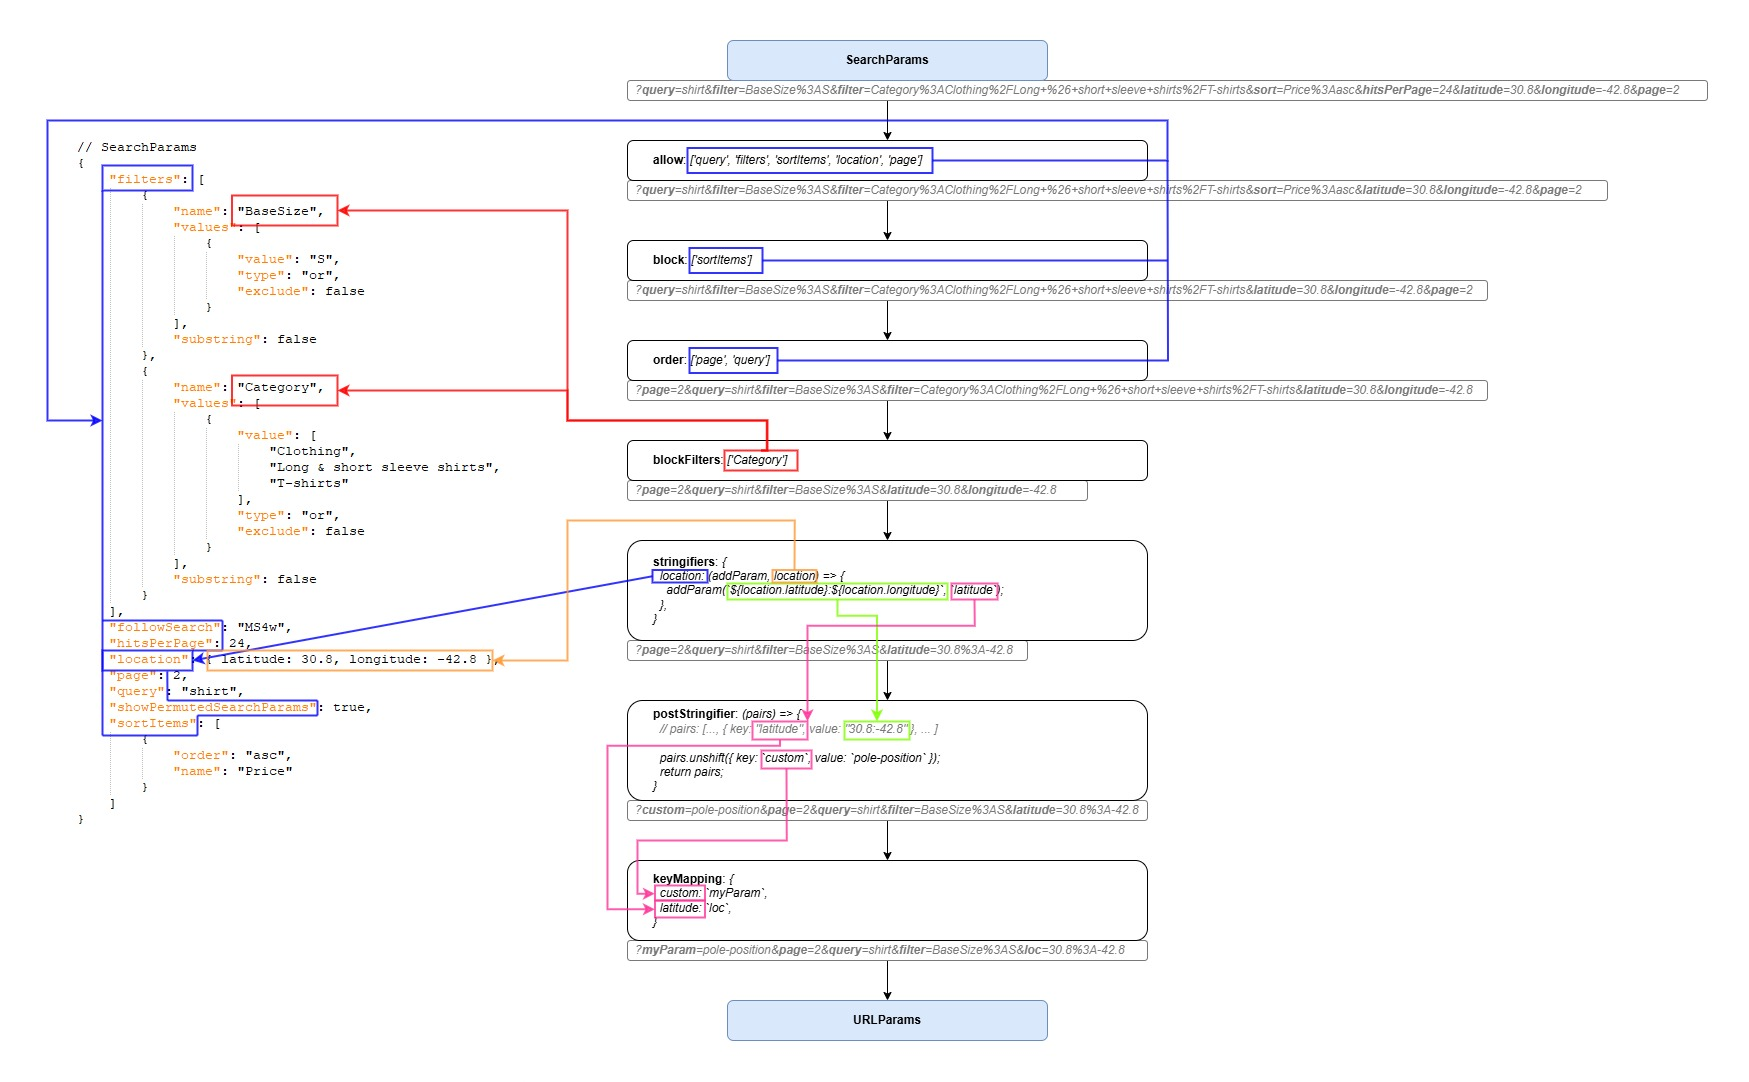
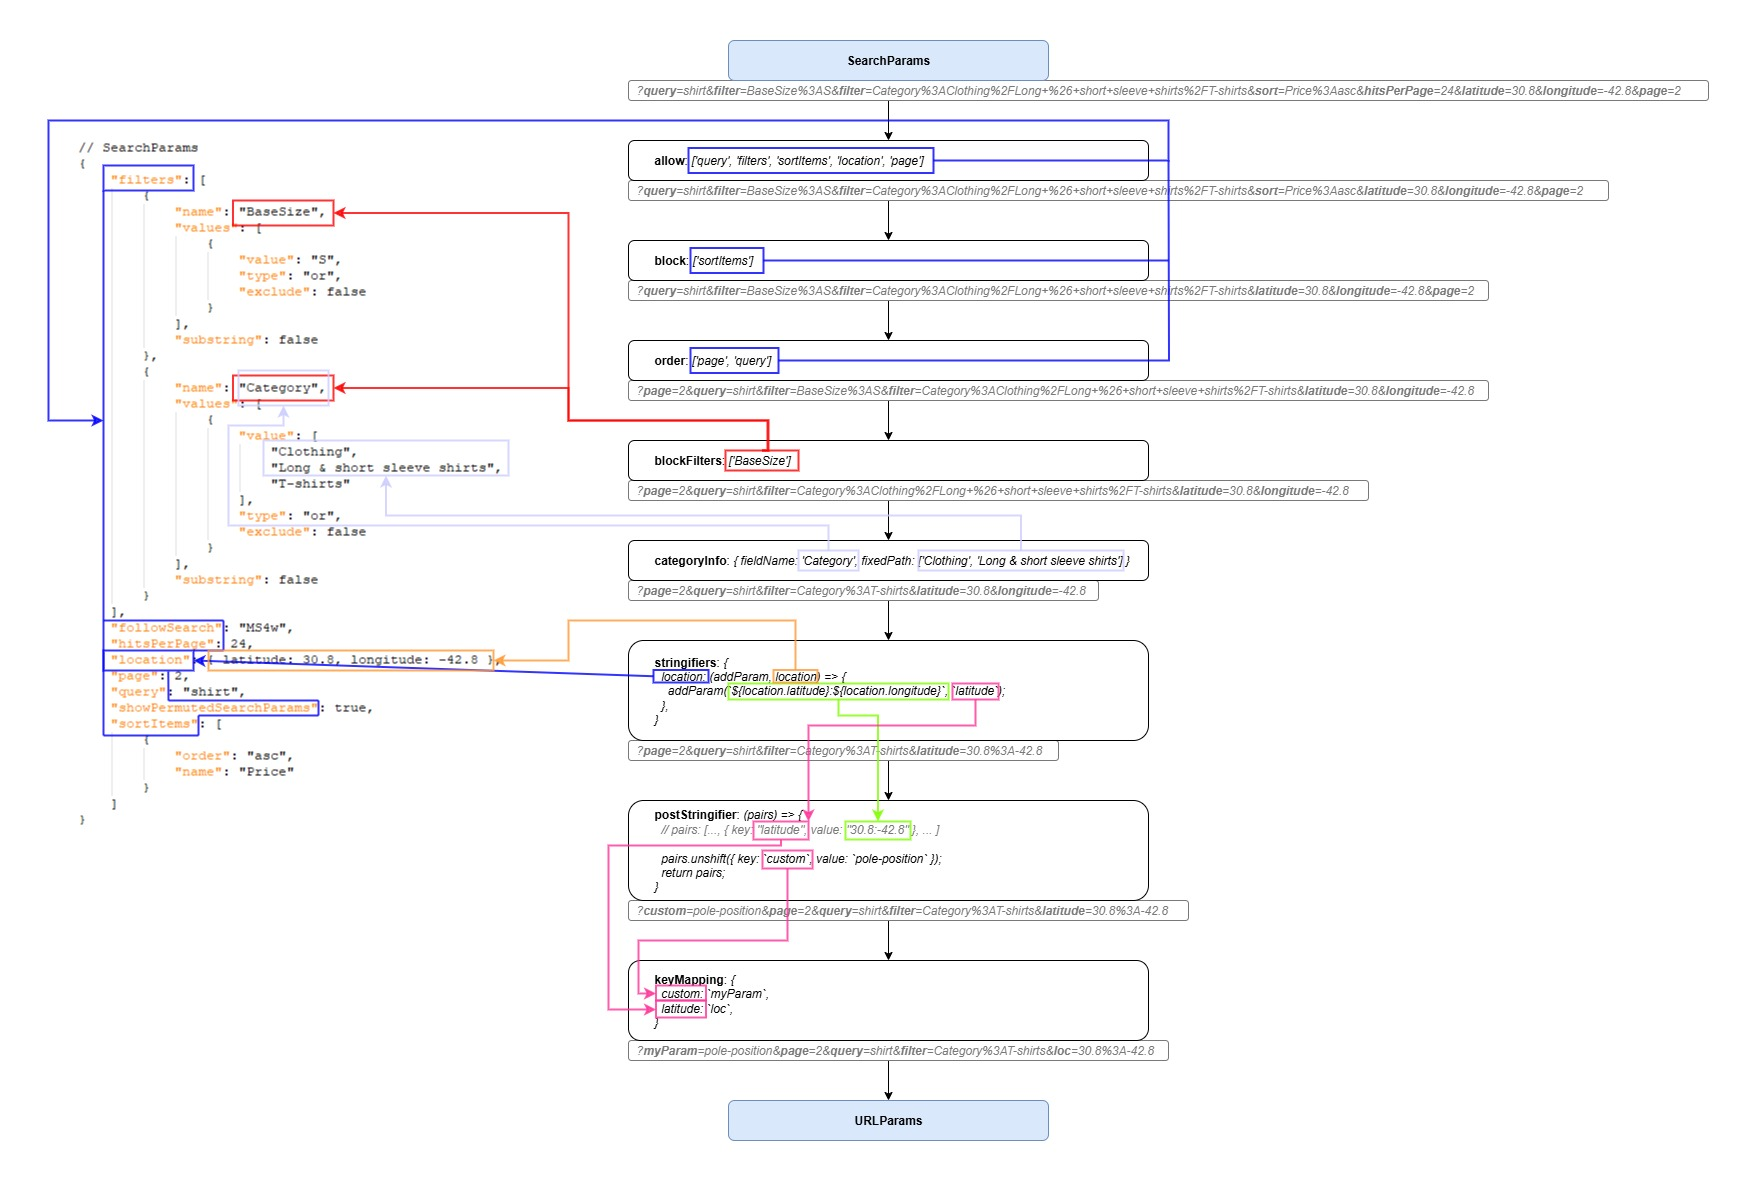
URL manipulation: add fixedCategoryPath info; update diagram

Changed region(s): [[0.0309, 0.0305, 0.988, 0.976], [0.0309, 0.3355, 0.0617, 0.3965], [0.3087, 0.183, 0.3396, 0.2135]]

diff --git a/markdown/5.x/en/url-manipulation.md b/markdown/5.x/en/url-manipulation.md
@@ -64,6 +64,7 @@ document.addEventListener(`ffCoreReady`, ({ factfinder, init, initialSearch }) =
         allow: [],
         block: [`activeAbTests`, `followSearch`, `purchaserId`, `showMarkets`, `showPermutedSearchParams`],
         blockFilters: [],
+        categoryInfo: undefined,
         keyMapping: {},
         order: [`query`, `filters`, `sortItems`],
         postStringifier: undefined,
@@ -131,6 +132,80 @@ factfinder.routing.setUrlParamOptionsListener(() => ({
     // Assuming your category filter's field name is 'Category'.
     blockFilters: [`Category`],
 }));
+```
+
+
+#### categoryInfo
+
+`categoryInfo` enables you to further customize the blocking of the category filter.
+While `blockFilters` would block the entire category filter, `categoryInfo` allows you to only **partially** block the category filter's path.
+
+> Use case
+>
+> This option is only relevant in one specific scenario:
+> On a category page that allows users to filter deeper into the page's sub-categories.
+>
+> If your category page does not offer further category filtering, this option is unnecessary, and you better use the simpler `blockFilters` option for your category filter.
+
+This option is only relevant for category pages where a part of the category filter is already encoded in the URL's path.
+E.g.: `www.your.shop/Clothing/Outdoor?filter=Category:Outdoor+jackets`
+
+Here, the fixed part is `['Clothing', 'Outdoor']` while the deeper, user selected part is `['Outdoor jackets']`.
+This should result in the complete category filter path of `['Clothing', 'Outdoor', 'Outdoor jackets']`.
+
+The option's format is `{ fieldName: String, fixedPath: [String] }`
+
+- `fieldName` is the category's field name from your data feed
+- `fixedPath` is an array of strings representing the page's category path that the user cannot deselect
+
+Both values are the same that you specify during category page setup at `appConfig.categoryPage`.
+
+
+##### Example
+
+When you use this option, its setup always requires **three parts**.
+
+- `appConfig.categoryPage`
+- `factfinder.routing.setUrlParamOptionsListener`
+- `factfinder.utils.env.searchParamsFromUrl`
+
+Note how all three contact points use `categoryFieldName` and `fixedCategoryPath`.
+**Always provide the same values as shown below!**
+
+```js
+document.addEventListener(`ffCoreReady`, ({ factfinder, init, initialSearch }) => {
+
+    const categoryFieldName = `Your_category_field_name`;
+    const fixedCategoryPath = [`The page's`, `category path`];
+
+    const initOptions = {
+        // ...
+        appConfig: {
+            // Setting the Web Components application to category page mode.
+            categoryPage: factfinder.utils.filterBuilders.categoryFilter(categoryFieldName, fixedCategoryPath)
+        },
+    };
+
+    // Setup for writing TO the URL.
+    factfinder.routing.setUrlParamOptionsListener(() => ({
+        // Not using `blockFilters` as it would block the entire category filter path.
+        // Here, we only want to prevent the page's FIXED category path from appearing in the URL's query string.
+        // blockFilters: [categoryFieldName],
+        categoryInfo: { fieldName: categoryFieldName, fixedPath: fixedCategoryPath },
+    }));
+
+    // Reading FROM the URL.
+    const searchParams = factfinder.utils.env.searchParamsFromUrl({
+        categoryFieldName,
+        fixedCategoryPath,
+    });
+
+    // Initialize the Web Components application.
+    init(initOptions);
+
+    // Trigger the initial search with the parameters that we just read from the URL.
+    initialSearch(searchParams);
+});
 ```
 
 
@@ -353,6 +428,7 @@ All options to `searchParamsFromUrl` are **optional**.
 const searchParams = factfinder.utils.env.searchParamsFromUrl({
     block,              // array of strings
     categoryFieldName,  // string
+    fixedCategoryPath,  // array of strings
     keyMapping,         // object
     preparsers,         // object
 });
@@ -385,6 +461,24 @@ You can find the correct field name in your data feed or, in a search response, 
 
 ```js
 factfinder.utils.env.searchParamsFromUrl({ categoryFieldName: `Category` });
+```
+
+
+#### fixedCategoryPath
+
+`fixedCategoryPath` can be used when you are implementing a **category page** that allows users to filter deeper into the page's sub-categories.
+It takes an array of strings that is the page's fixed category path.
+It is the _same array_ that you use to set up the category page during app configuration and also provide to `factfinder.routing.setUrlParamOptionsListener`.
+
+If you specify this option, you must also specify `categoryFieldName`.
+
+See the related section `categoryInfo` above in _SearchParams to URL params_ for details and examples.
+
+```js
+const searchParams = factfinder.utils.env.searchParamsFromUrl({
+    categoryFieldName: `Category`,
+    fixedCategoryPath: [`Clothing`, `Outdoor`],
+});
 ```
 
 
